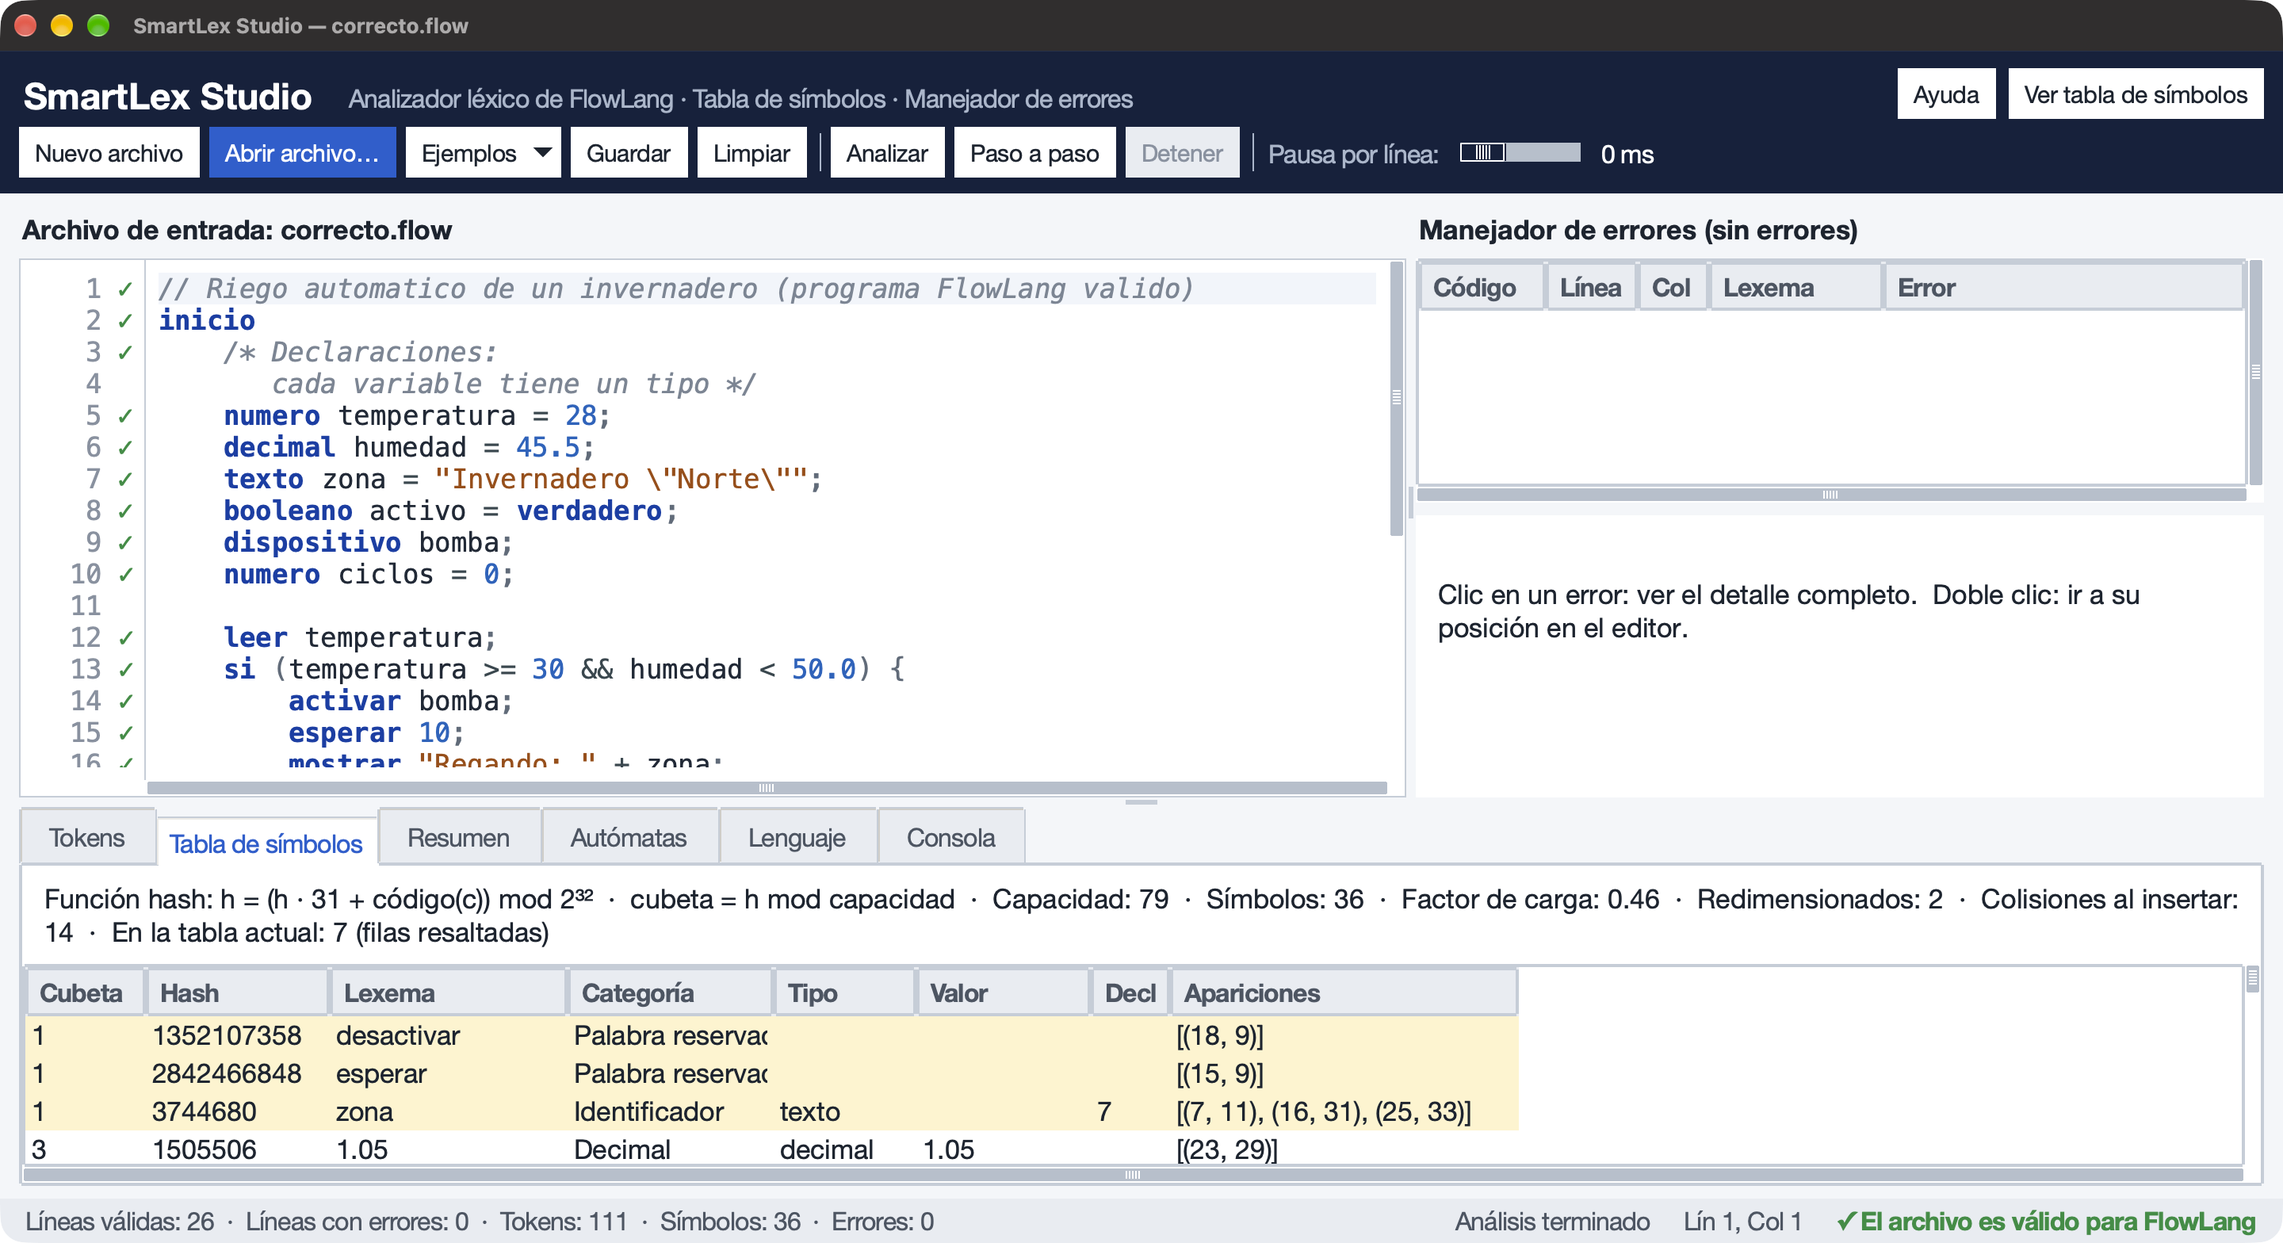
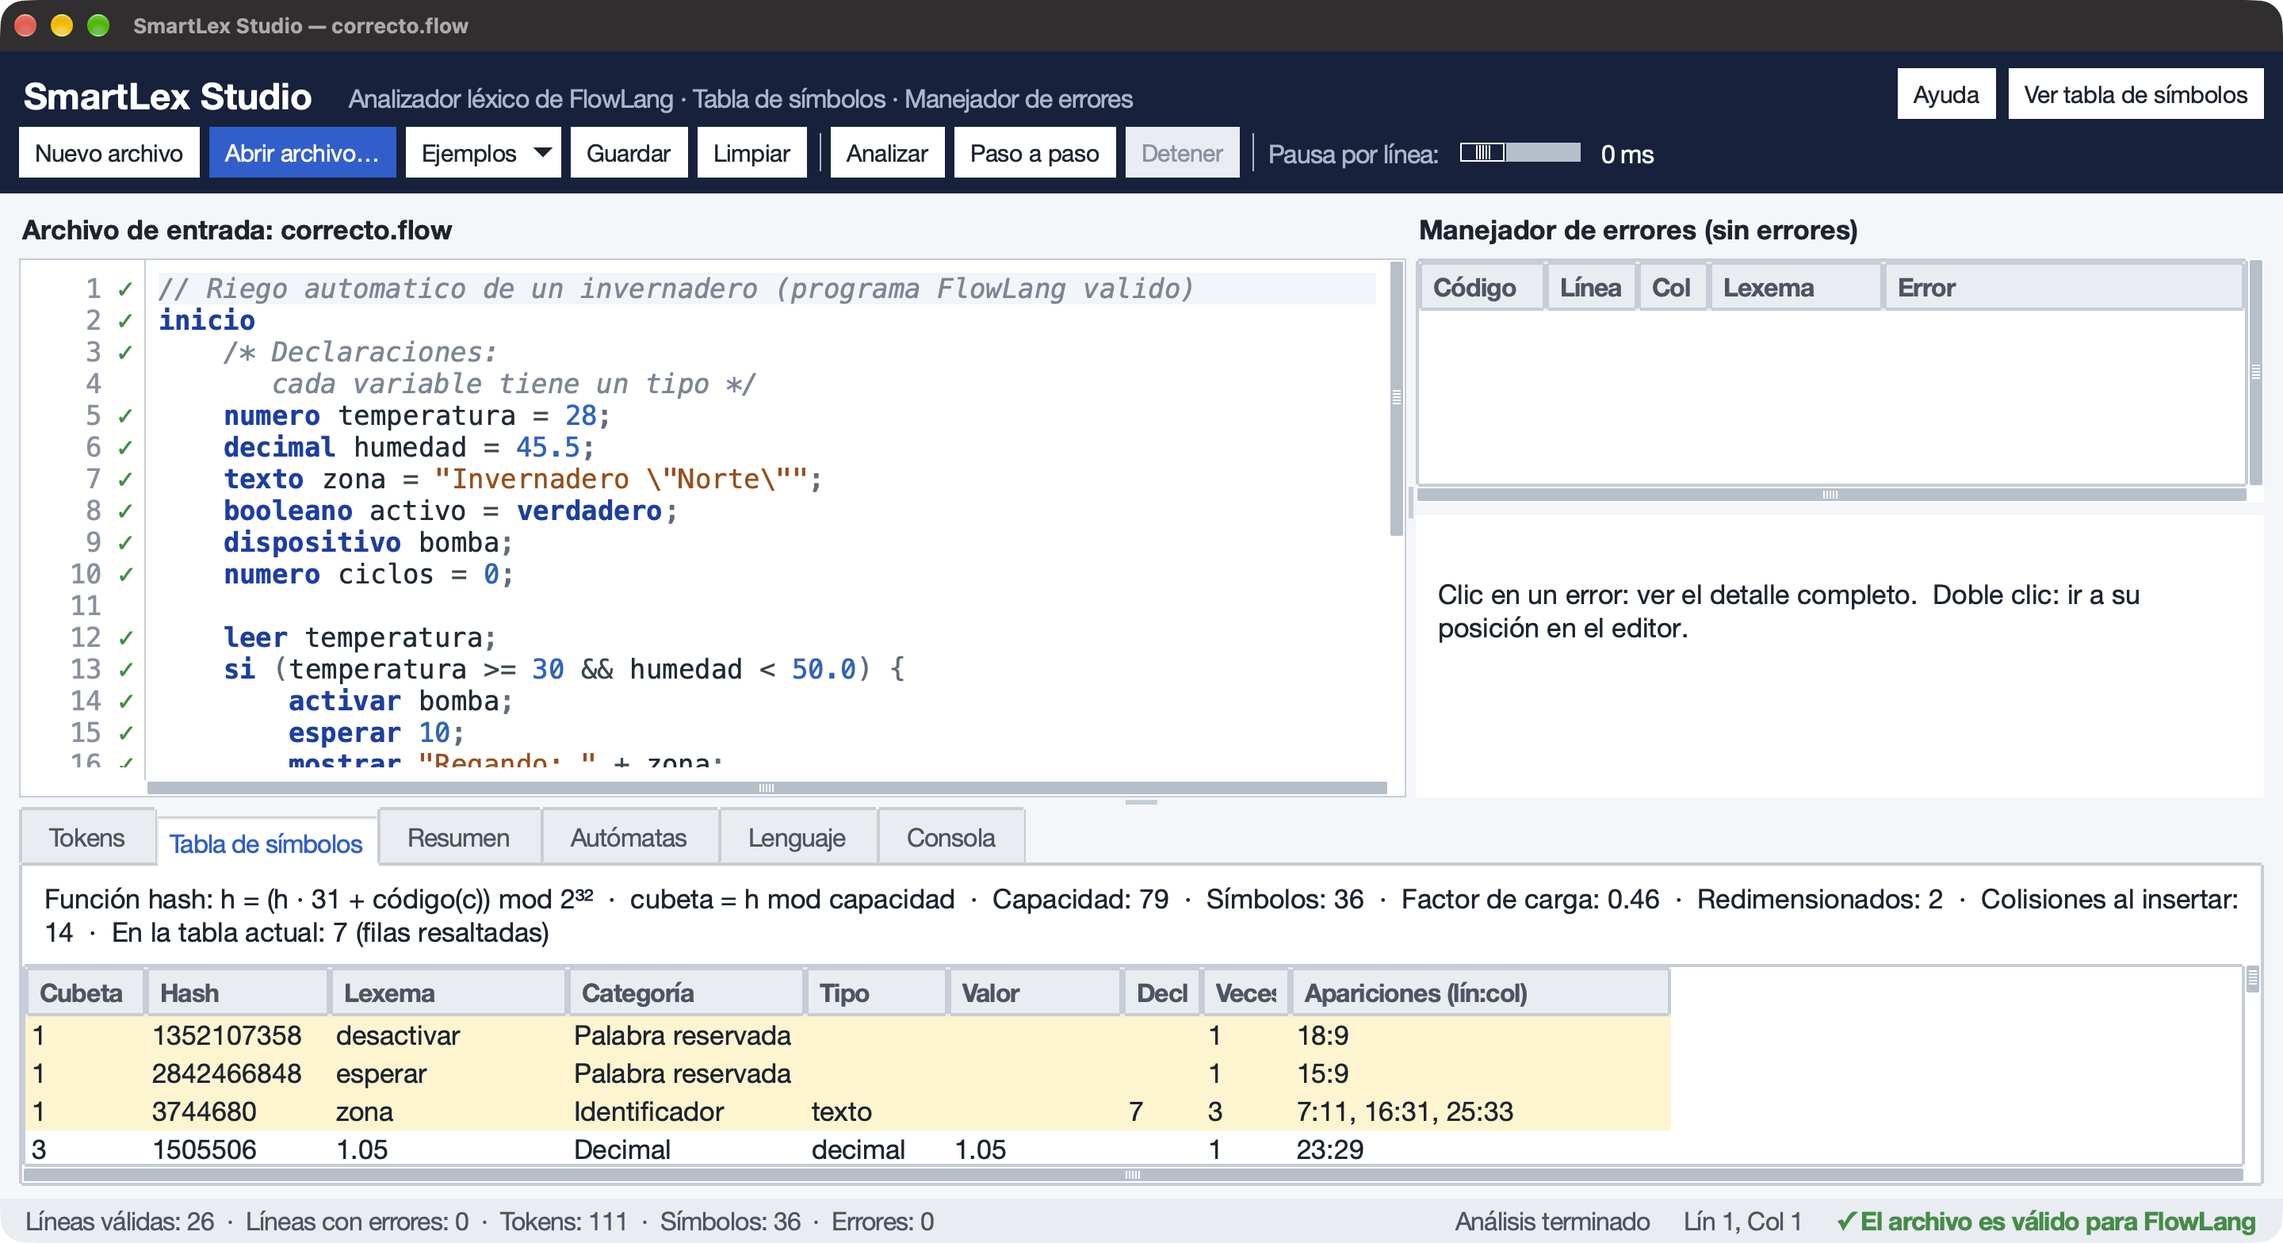
Auditoría Fase D (Opus): tabla de símbolos legible, tope de 10 s en la pausa por línea

Changed region(s): [[0.4688, 0.7812, 0.75, 0.9375], [0.3438, 0.875, 0.4375, 0.9375], [0.3438, 0.7812, 0.4375, 0.8125]]

diff --git a/SmartLexStudio/ui/interfaz.py b/SmartLexStudio/ui/interfaz.py
@@ -2,6 +2,7 @@
 from __future__ import annotations
 
 import sys
+import time
 import tkinter as tk
 from pathlib import Path
 from tkinter import filedialog, messagebox, ttk
@@ -17,6 +18,7 @@ from ui.paneles import PanelErrores, PanelResultados
 
 DURACION_MAXIMA_ANIMACION_MS = 10000  # tope de la animacion completa (la pausa por linea se acorta en archivos largos)
 PASOS_MAXIMOS_POR_TICK = 500          # una linea larguisima no debe bloquear la ventana
+PRESUPUESTO_TICK_S = 0.03             # AUD-34: un latido atrasado agrupa lineas hasta 30 ms y cede para repintar
 TITULO_SOLICITUD = "Seleccione el archivo con las cadenas de entrada"
 
 SIN_FUENTE, LISTO, ANALIZANDO, TERMINADO = "SIN_FUENTE", "LISTO", "ANALIZANDO", "TERMINADO"
@@ -49,6 +51,7 @@ class VentanaPrincipal(tk.Tk):
         self._errores_vistos = 0
         self._linea_en_curso = 0   # ultima linea con tokens que el analisis ya empezo (0 = ninguna)
         self._lineas_fuente = 1
+        self._ritmo = (0.0, 0, -1)  # AUD-34: (instante de referencia, lineas animadas desde entonces, pausa usada)
         self._texto_guardado = ""  # texto del editor en la ultima carga o guardado (detecta cambios)
         aplicar_tema(self)
         self._configurar_ventana()
@@ -277,22 +280,40 @@ class VentanaPrincipal(tk.Tk):
         if self.estado != ANALIZANDO:
             self._iniciar_sesion()
         self.panel_resultados.mostrar("tokens")
+        self._ritmo = (time.monotonic(), 0, self._pausa_efectiva())
         self._id_tick = self.after(1, self._tick)
 
     def _pausa_efectiva(self) -> int:
         """Pausa entre lineas: el deslizador, acortada para que un archivo largo no dure mas del tope."""
         return min(self.cabecera.pausa_ms(), DURACION_MAXIMA_ANIMACION_MS // max(1, self._lineas_fuente))
 
+    def _atrasado(self) -> bool:
+        """AUD-34: el trabajo de cada linea se suma a la pausa; si el reloj va por detras del ritmo
+        `lineas x pausa` (o la pausa es 0), el latido sigue con la linea siguiente sin esperar.
+        Si el deslizador cambia, el ritmo se reinicia (no se recupera el atraso de la pausa anterior)."""
+        pausa = self._pausa_efectiva()
+        inicio, lineas, pausa_usada = self._ritmo
+        if pausa != pausa_usada:
+            self._ritmo = (time.monotonic(), 0, pausa)
+            return pausa == 0
+        return pausa == 0 or (time.monotonic() - inicio) * 1000 > lineas * pausa
+
     def _tick(self) -> None:
-        """Un latido: consume pasos hasta terminar la linea en curso y espera la pausa (§17.7)."""
+        """Un latido: consume pasos hasta terminar la linea en curso y espera la pausa (§17.7);
+        si va atrasado respecto del tope, agrupa lineas dentro de PRESUPUESTO_TICK_S (AUD-34)."""
         self._id_tick = None
         linea = self._linea_en_curso
+        limite = time.monotonic() + PRESUPUESTO_TICK_S
         for _ in range(PASOS_MAXIMOS_POR_TICK):
             if not self._consumir_paso(educativo=False):
                 return
             if self._linea_en_curso != linea:
-                self._id_tick = self.after(self._pausa_efectiva(), self._tick)
-                return
+                inicio, lineas, pausa_usada = self._ritmo
+                self._ritmo = (inicio, lineas + 1, pausa_usada)
+                linea = self._linea_en_curso
+                if not self._atrasado() or time.monotonic() >= limite:
+                    self._id_tick = self.after(max(1, self._pausa_efectiva()), self._tick)
+                    return
         self._id_tick = self.after(1, self._tick)
 
     def paso_a_paso(self) -> None:

diff --git a/SmartLexStudio/ui/paneles.py b/SmartLexStudio/ui/paneles.py
@@ -15,8 +15,8 @@ from ui.estilos import COLORES_TOKEN, TEMA, fuente_codigo, fuente_interfaz
 COLUMNAS_TOKENS = [("n", "#", 56), ("linea", "Lín", 50), ("col", "Col", 50),
                    ("categoria", "Categoría", 150), ("lexema", "Lexema", 220)]
 COLUMNAS_SIMBOLOS = [("cubeta", "Cubeta", 76), ("hash", "Hash", 116), ("lexema", "Lexema", 150),
-                     ("categoria", "Categoría", 130), ("tipo", "Tipo", 90), ("valor", "Valor", 110),
-                     ("decl", "Decl.", 50), ("apariciones", "Apariciones", 220)]
+                     ("categoria", "Categoría", 150), ("tipo", "Tipo", 90), ("valor", "Valor", 110),
+                     ("decl", "Decl.", 50), ("veces", "Veces", 70), ("apariciones", "Apariciones (lín:col)", 240)]
 COLUMNAS_ERRORES = [("codigo", "Código", 80), ("linea", "Línea", 58), ("col", "Col", 45),
                     ("lexema", "Lexema", 110), ("error", "Error", 200)]
 
@@ -30,6 +30,22 @@ def recortar(texto: object, maximo: int = _MAX_TEXTO) -> str:
     """Texto en una linea (saltos como ⏎) y recortado a `maximo` caracteres."""
     limpio = str(texto).replace("\n", "⏎").replace("\t", "→")
     return limpio if len(limpio) <= maximo else limpio[:maximo] + "…"
+
+
+def formatear_apariciones(apariciones) -> str:
+    """Posiciones legibles `lin:col, lin:col` (AUD-33; antes se mostraba la lista Python cruda)."""
+    return recortar(", ".join(f"{linea}:{columna}" for linea, columna in apariciones), 60)
+
+
+def formatear_valor(valor: object) -> str:
+    """Valor del literal como en FlowLang: booleanos con su palabra, cadenas entre comillas, nada para None (AUD-33)."""
+    if valor is None:
+        return ""
+    if isinstance(valor, bool):
+        return next((palabra for palabra, v in reglas.VALORES_BOOLEANOS.items() if v is valor), str(valor))
+    if isinstance(valor, str):
+        return recortar('"' + valor.replace("\\", "\\\\").replace('"', '\\"') + '"')
+    return recortar(valor)
 
 
 def _tabla(padre, columnas, estirar: tuple[str, ...] = ()) -> ttk.Treeview:
@@ -169,8 +185,9 @@ class PanelResultados(ttk.Frame):
             for entrada in cubeta:
                 self.arbol_simbolos.insert("", "end", tags=(("colision",) if len(cubeta) > 1 else ()), values=(
                     indice, entrada.valor_hash, recortar(entrada.lexema), entrada.categoria.value,
-                    entrada.tipo_dato or "", recortar(entrada.valor) if entrada.valor is not None else "",
-                    entrada.linea_declaracion or "", recortar(entrada.apariciones)))
+                    entrada.tipo_dato or "", formatear_valor(entrada.valor),
+                    entrada.linea_declaracion or "", len(entrada.apariciones),
+                    formatear_apariciones(entrada.apariciones)))
         e = tabla.estadisticas()
         visibles = e.cantidad - e.cubetas_ocupadas
         self.etiqueta_resumen.configure(text=(

diff --git a/SmartLexStudio/tests/test_ui_rediseno.py b/SmartLexStudio/tests/test_ui_rediseno.py
@@ -650,6 +650,37 @@ class TestRediseno(unittest.TestCase):
         self.assertEqual(self.filas(v.panel_errores.arbol_errores), 1)
         self.assertEqual(v.estado, "SIN_FUENTE")
 
+    # --- Auditoría Fase D (reviewer-opus) -----------------------------------------
+    def test_aud33_tabla_de_simbolos_legible(self):
+        from ui.paneles import formatear_apariciones, formatear_valor
+        self.assertEqual(formatear_apariciones([(6, 12), (9, 9), (10, 18)]), "6:12, 9:9, 10:18")
+        self.assertEqual([formatear_valor(x) for x in (True, False, None, 28, 1.05)],
+                         ["verdadero", "falso", "", "28", "1.05"])
+        self.assertEqual(formatear_valor('Invernadero "Norte"'), '"Invernadero \\"Norte\\""')
+        self.terminar(CORRECTO)
+        arbol = self.v.panel_resultados.arbol_simbolos
+        filas = {arbol.set(i, "lexema"): i for i in arbol.get_children()}
+        humedad = filas["humedad"]
+        self.assertEqual(arbol.set(humedad, "apariciones"), "6:13, 13:30, 23:9, 23:19")
+        self.assertEqual(arbol.set(humedad, "veces"), "4")
+        self.assertEqual(arbol.set(filas["verdadero"], "valor"), "verdadero")
+        for i in arbol.get_children():
+            self.assertNotIn("[(", arbol.set(i, "apariciones"))
+            self.assertNotIn(arbol.set(i, "valor"), ("True", "False", "None"))
+
+    def test_aud34_archivo_largo_respeta_el_tope_y_repinta(self):
+        v = self.v
+        base = Path(CORRECTO).read_text(encoding="utf-8").splitlines()
+        ruta = self.carpeta_temporal() / "largo.flow"
+        ruta.write_text("\n".join((base * 200)[:3000]), encoding="utf-8")
+        v.cabecera.establecer_pausa(120)
+        v.abrir_archivo(str(ruta))
+        inicio = time.monotonic()
+        v.analizar()
+        self.bombear(lambda: v.estado == "TERMINADO", limite=40)
+        # antes de AUD-34 el trabajo de cada línea se sumaba a la pausa (~24 s para 3 000 líneas)
+        self.assertLess(time.monotonic() - inicio, self.interfaz.DURACION_MAXIMA_ANIMACION_MS / 1000 * 1.3)
+
 
 if __name__ == "__main__":
     unittest.main()

diff --git a/SmartLexStudio/docs/06_auditoria.md b/SmartLexStudio/docs/06_auditoria.md
@@ -346,3 +346,24 @@ Diferencias aceptadas (§16.1): un solo archivo en la pestaña, sin guías de sa
 | Cabecera de una fila; columnas Tipo/Subtipo/Veces/Líneas; códigos E01… | Diferencia aceptada (§17.1) |
 
 Ningún defecto queda abierto. Los textos de la cabecera ocupan dos filas (D-62). **M1–M3** repetidas con las pruebas `test_requisito_5a/5b/6` y las capturas 1, 2, 5 y 6. **M5** (Windows/Linux del laboratorio) y la repetición en **Tk 8.6** siguen pendientes: no se han probado.
+
+---
+
+## Auditoría Fase D (reviewer-opus)
+
+Revisión de `git diff 10be484 8e1ecf8` (ui y tests) contra §17, las tareas C1–C8 y D-61…D-73, verificada **ejecutando** la aplicación (sondas con `mainloop` real, no solo las pruebas).
+
+| ID | Severidad | Problema | Impacto | Prueba que lo reproduce | Corrección | Estado |
+|---|---|---|---|---|---|---|
+| AUD-33 | Media | La Tabla de símbolos mostraba `repr` de Python: apariciones `[(7, 11), (16, 31)]`, booleanos `True/False`, cadenas sin comillas | Ilegible para el estudiante; `True` no es FlowLang | `test_aud33_tabla_de_simbolos_legible` | `ui/paneles.py`: `formatear_apariciones` → `7:11, 16:31, 25:33`; `formatear_valor` (booleano con su palabra `verdadero/falso`, cadena entre comillas con escapes, `None` vacío); columna nueva «Veces»; «Categoría» a 150 px (se cortaba «Palabra reservada») | Corregido |
+| AUD-34 | Media | El tope de 10 s (§17.7) no se cumplía: `_pausa_efectiva` acorta solo la espera y el trabajo de cada línea (~6 ms con repintado) se sumaba. Medido: 5 000 líneas a 120 ms → **39,6 s**; además en 0 ms la ventana no repintaba durante 1,9 s (un solo repintado en todo el análisis) | Archivos largos tardaban 4× el tope; en 0 ms la UI quedaba congelada visualmente | `test_aud34_archivo_largo_respeta_el_tope_y_repinta` (3 000 líneas < 13 s) | `ui/interfaz.py`: `_atrasado()` lleva el ritmo `líneas × pausa` desde `analizar()`; si el reloj va por detrás (o la pausa es 0) el latido agrupa líneas hasta `PRESUPUESTO_TICK_S = 30 ms` y cede; mover el deslizador reinicia el ritmo; el `after` usa `max(1, pausa)`. Medido después: 5 000 líneas 120 ms → 9,0 s (peor hueco de repintado 88 ms); 0 ms → 2,1 s con 27 repintados (peor hueco 99 ms); 60 líneas 120 ms → 6,6 s (sin cambio) | Corregido |
+| AUD-35 | Baja (informativo) | La clave `TEMA["advertencia"]` no se usa en `ui/` | Ninguno; la prueba exige las 25 claves de §17.3 | `grep '\["advertencia"\]' ui` vacío | Se deja: la paleta la fija la arquitectura | Abierto (arquitecto) |
+| AUD-36 | Baja | En 1440×880 la pestaña inferior muestra solo ~4 filas de la Tabla de símbolos (la referencia muestra ~12) y el resumen de la función hash ocupa dos líneas | Hay que arrastrar el divisor para leer la tabla | captura `2_tabla_simbolos.png` | Proporción de los divisores (`_colocar_divisores`) es decisión de diseño §17.2 | Escalado al arquitecto |
+
+**Observaciones del orquestador.** O-1 confirmada → AUD-33. O-2 **no es defecto**: al abrir la aplicación el deslizador vale 120 ms y la etiqueta dice «120 ms» (sonda y `test_pausa_por_defecto_y_etiqueta`); las capturas muestran 0 ms porque `capturar.py` llama `establecer_pausa(0)` para las capturas de análisis completo (la 6 usa 300 ms). Texto y valor se sincronizan por el `command` del `ttk.Scale`.
+
+**Verificado ejecutando.** Req. 5: con 120 ms sobre `incorrecto.flow` (1,8 s) las filas del manejador aparecen antes del final (142 muestras con errores > 0 antes de terminar), las marcas ✓/✗ crecen 0→1→2→4…→8, la pestaña Tabla de símbolos está deshabilitada en todas las muestras previas y al final se ofrece el `askyesno`. Req. 6, paso a paso/detener, Ctrl/⌘+N, C5 (Sí/No/Cancelar en abrir/ejemplos/limpiar/cerrar; Ctrl+O sin salto), F2 error→línea, Autómatas: cubiertos por pruebas de `test_ui_rediseno.py` que pasan. Modo consola: `main.py --consola ejemplos/incorrecto.flow` → 15 errores, veredicto INVÁLIDA, oferta de tabla. Capas: `ui/` solo importa `application`, `config`, `core.modelos` y `ui`; colores hex solo en `estilos.py`; `core/` y `application/` sin `tkinter`. Código muerto del diseño PyCharm: no queda (`test_no_queda_nada_del_diseno_pycharm` + barrido de funciones sin uso).
+
+**D-73 (opinión).** (a), (b), (d), (e), (f) razonables y de bajo riesgo. (c) aceptable, pero el deslizador de 80 px es poco preciso (0–500 ms en 80 px ≈ 6 ms/px): sugerencia al arquitecto de 120 px si cabe. Recomiendo aprobar D-73.
+
+**Batería.** `python3.14 -m unittest discover -s tests -t .` tres corridas: `Ran 176 tests` · `FAILED (failures=2)` (solo `test_conteos_de_flowlang_1_0` y `test_listar_ejemplos`, por los archivos locales del usuario), 0 trazas `("after" script)` / `invalid command` (AUD-28 sigue cerrado). Capturas regeneradas una vez (`capturar.py`); la 2 ya muestra «Veces» y `lín:col` (la cabecera «Veces» se veía cortada y se ensanchó a 70 px después de la captura).

diff --git a/SmartLexStudio/agents/revisiones.md b/SmartLexStudio/agents/revisiones.md
@@ -155,3 +155,14 @@ Decisiones revisadas: D-36 aprobada, D-37 aprobada, D-38 aprobada, D-39 aprobada
 
 B9 (D-42) y B10 (D-43) revisados: correctos, con pruebas significativas. Batería: 3 corridas `Ran 118 tests` · `OK`, 0 trazas.
 
+
+### Auditoría Fase D (reviewer-opus)
+
+| ID | Severidad | Archivo | Problema | Corrección | Estado |
+|---|---|---|---|---|---|
+| AUD-33 | Media | `ui/paneles.py` | Tabla de símbolos con `repr` crudo (apariciones `[(6, 12)…]`, `True/False`, cadenas sin comillas) | `formatear_apariciones` (`6:12, 9:9`), `formatear_valor`, columna «Veces» | Corregido; `test_aud33_tabla_de_simbolos_legible` |
+| AUD-34 | Media | `ui/interfaz.py` | Tope de 10 s incumplido (5 000 líneas a 120 ms: 39,6 s); en 0 ms sin repintado 1,9 s | Ritmo `líneas × pausa` + agrupación con presupuesto de 30 ms (`_atrasado`, `PRESUPUESTO_TICK_S`) → 9,0 s / 2,1 s con repintado | Corregido; `test_aud34_archivo_largo_respeta_el_tope_y_repinta` |
+| AUD-35 | Baja | `ui/estilos.py` | `TEMA["advertencia"]` sin uso | Ninguna (paleta fijada por §17.3) | Abierto, arquitecto |
+| AUD-36 | Baja | `ui/interfaz.py` (divisores) | Solo ~4 filas visibles de la Tabla de símbolos en 1440×880 | Escalado (proporciones §17.2) | Escalado a architect-fable |
+
+O-2 (pausa en 0 ms) no es defecto: el valor por defecto real es 120 ms; el driver de capturas lo pone en 0. D-73: aprobable; sugerir deslizador de 120 px. Batería: 3 corridas `Ran 176 tests`, 2 fallas esperadas (archivos del usuario), 0 trazas.

diff --git a/SmartLexStudio/agents/tareas.md b/SmartLexStudio/agents/tareas.md
@@ -20,6 +20,7 @@ Documentos de referencia obligatorios antes de implementar: `docs/03_especificac
 | B17 Nuevo archivo (Ctrl+N) | developer-sonnet | claude-sonnet-5-5 | completado (pendiente de revisión) | `crear_fuente`/`plantilla_nueva`, icono y menú, atajos, árbol Proyecto actualizado; 151 pruebas, única falla `test_conteos_de_flowlang_1_0` (cambio local ajeno); D-60 |
 | Diseño del rediseño claro estilo académico (Fase D) | architect-fable | claude-fable-5-2 | completado | `docs/02_arquitectura.md` §17 (zonas, paleta, pausa por línea, qué se elimina y reutiliza, pruebas a adaptar); tareas C1–C8; decisiones D-61…D-72; incluye la corrección pendiente AUD-29/31/32 |
 | Fase D (C1–C8) | developer-sonnet | claude-sonnet-5-5 | completado (pendiente de revisión) | C1–C8 implementadas; 174 pruebas con python3.14 (Tk 9.0), solo las 2 fallas de D-72, tres corridas iguales; 6 capturas reales en 3 iteraciones y tabla de comparación en `docs/06_auditoria.md`; AUD-29/31/32 cerrados con prueba; D-73 pendiente de revisión; Tk 8.6 y M5 no probados |
+| Auditoría Fase D | reviewer-opus | claude-opus-5-5 | completado | AUD-33 (tabla de símbolos legible: `lín:col`, «Veces», `verdadero/falso`) y AUD-34 (tope de 10 s y repintado en archivos largos) corregidos con prueba; AUD-35/36 bajos al arquitecto; O-2 no es defecto; D-73 aprobable; 176 pruebas, 2 fallas esperadas, 0 trazas en 3 corridas |
 
 ## Reglas generales para el desarrollador
 
